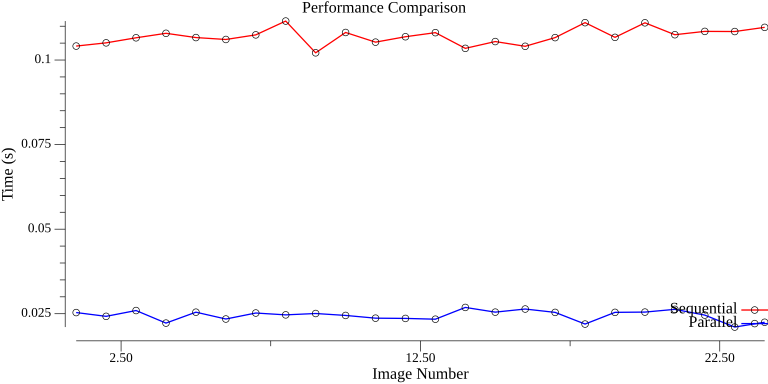
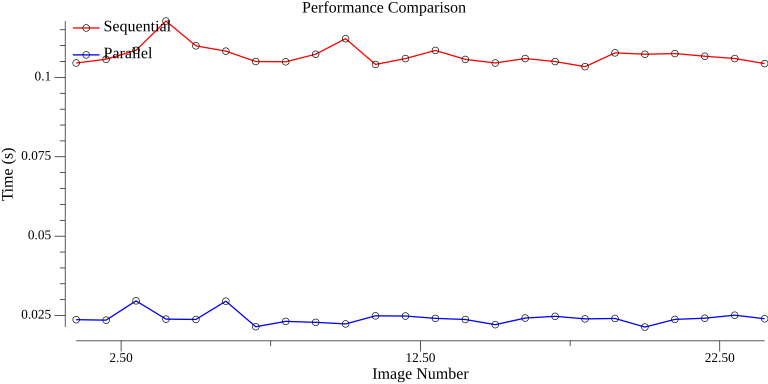
updated the graph

diff --git a/main.go b/main.go
@@ -139,18 +139,27 @@ func main() {
         log.Fatalf("failed to create line points for sequential: %v", err)
     }
     seqLine.Color = color.RGBA{R: 255, G: 0, B: 0, A: 255} // Red line for sequential
-    p.Add(seqLine, seqPoints)
 
     parLine, parPoints, err := plotter.NewLinePoints(parallelPoints)
     if err != nil {
         log.Fatalf("failed to create line points for parallel: %v", err)
     }
     parLine.Color = color.RGBA{R: 0, G: 0, B: 255, A: 255} // Blue line for parallel
+
+    // Adjust the legend position and padding
+    p.Legend.Top = true // Move the legend to the top of the plot
+    p.Legend.Left = true // Align the legend to the left
+    p.Legend.Padding = vg.Points(10)
+
+    // Add the lines and points to the plot
+    p.Add(seqLine, seqPoints)
     p.Add(parLine, parPoints)
 
+    // Add legend entries
     p.Legend.Add("Sequential", seqLine, seqPoints)
     p.Legend.Add("Parallel", parLine, parPoints)
 
+    // Save the plot
     if err := p.Save(8*vg.Inch, 4*vg.Inch, "performance_comparison.png"); err != nil {
         log.Fatalf("failed to save plot: %v", err)
     }
